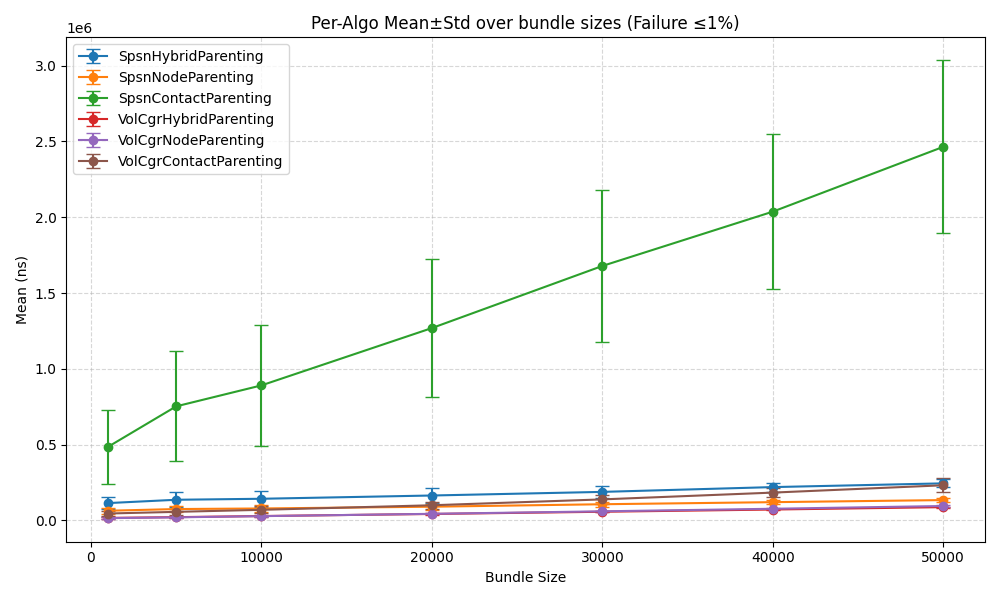
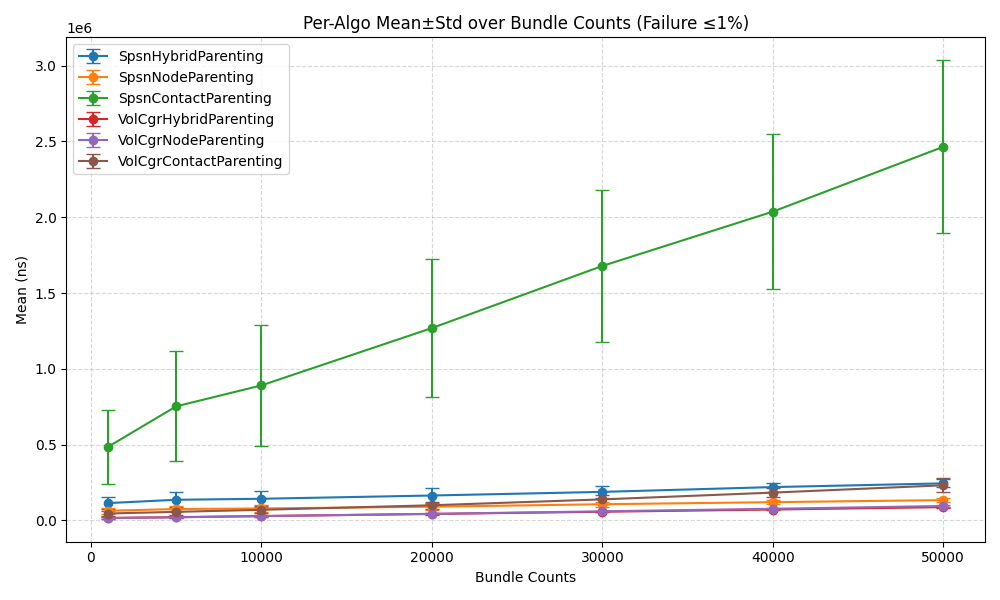
correct typo: Bundle Sizes -> Bundle Counts

Changed region(s): [[0.31, 0.03, 0.744, 0.06], [0.465, 0.93, 0.589, 0.99]]

diff --git a/Computational Evaluation/grid-search/Mean+Std of Diffs Across Elapsed-Time Pairs_6 lines_bundle.py b/Computational Evaluation/grid-search/Mean+Std of Diffs Across Elapsed-Time Pairs_6 lines_bundle.py
@@ -18,8 +18,8 @@ for fname in os.listdir('.'):
 if not log_files:
     raise FileNotFoundError("No log files found matching '(6 XeY b).log' pattern.")
 
-bundle_sizes = sorted(log_files.keys())
-print(f"Discovered log durations (s): {bundle_sizes}")
+bundle_counts = sorted(log_files.keys())
+print(f"Discovered log durations (s): {bundle_counts}")
 
 # Regex to extract mean (ns) and failure rate (%) per metric line
 METRIC_PATTERN = re.compile(
@@ -62,64 +62,64 @@ def extract_metrics(filename: str):
     return means, fails
 
 # Load metrics per duration
-metrics = {} # {size: {'means': { <algo_name>: mean_ns[] }, 'fails': { <algo_name>: fail_pct[] }} for size in bundle_sizes}
-for size in bundle_sizes:
-    mns, fls = extract_metrics(log_files[size])
-    metrics[size] = {'means': mns, 'fails': fls}
+metrics = {} # {count: {'means': { <algo_name>: mean_ns[] }, 'fails': { <algo_name>: fail_pct[] }} for count in bundle_counts}
+for count in bundle_counts:
+    mns, fls = extract_metrics(log_files[count])
+    metrics[count] = {'means': mns, 'fails': fls}
 
 # Verify equal metric count
-counts = {size: len(metrics[size]['means'][algo_names[0]]) for size in bundle_sizes}
+counts = {count: len(metrics[count]['means'][algo_names[0]]) for count in bundle_counts}
 print(f"Metric counts per log: {counts}")
 if len(set(counts.values())) != 1:
     raise ValueError(f"Inconsistent metric counts across logs: {counts}")
 
 # Filter metrics by failure rate <=1%
 metrics_filtered = {
-    size: {
+    count: {
         'means': {name: [] for name in algo_names},
         'fails': {name: [] for name in algo_names}
     }
-    for size in bundle_sizes
+    for count in bundle_counts
 }
-for size in bundle_sizes:
+for count in bundle_counts:
     for name in algo_names:
-        raw_means = metrics[size]['means'][name]
-        raw_fails = metrics[size]['fails'][name]
+        raw_means = metrics[count]['means'][name]
+        raw_fails = metrics[count]['fails'][name]
         for m, f in zip(raw_means, raw_fails):
             if f <= 1.0:
-                metrics_filtered[size]['means'][name].append(m)
-                metrics_filtered[size]['fails'][name].append(f)
+                metrics_filtered[count]['means'][name].append(m)
+                metrics_filtered[count]['fails'][name].append(f)
 
 # Compute global valid indices per algo across all logs
 valid_indices_per_algo = {name: [] for name in algo_names}
 for name in algo_names:
-    total_counts = len(metrics[bundle_sizes[0]]['means'][name])
+    total_counts = len(metrics[bundle_counts[0]]['means'][name])
     # check each original index if failure <=1 for all logs
     for idx in range(total_counts):
-        if all(metrics[size]['fails'][name][idx] <= 1.0 for size in bundle_sizes):
+        if all(metrics[count]['fails'][name][idx] <= 1.0 for count in bundle_counts):
             valid_indices_per_algo[name].append(idx)
 
 # Filter each log by these common indices to equalize counts
 metrics_filtered_log = {
-    size: {
+    count: {
         'means': {name: [] for name in algo_names},
         'fails': {name: [] for name in algo_names}
     }
-    for size in bundle_sizes
+    for count in bundle_counts
 }
-for size in bundle_sizes:
+for count in bundle_counts:
     for name in algo_names:
         for idx in valid_indices_per_algo[name]:
-            metrics_filtered_log[size]['means'][name].append(metrics[size]['means'][name][idx])
-            metrics_filtered_log[size]['fails'][name].append(metrics[size]['fails'][name][idx])
+            metrics_filtered_log[count]['means'][name].append(metrics[count]['means'][name][idx])
+            metrics_filtered_log[count]['fails'][name].append(metrics[count]['fails'][name][idx])
 
-# Compute per-algo mean & std across bundle sizes
-print("======Per-algo Mean Std across durations filtered by (Failure ≤1%) for one bundle size:")
+# Compute per-algo mean & std across bundle counts
+print("======Per-algo Mean Std across durations filtered by (Failure ≤1%) for one bundle count:")
 duration_means_per_algo = {name: [] for name in algo_names}
 duration_stds_per_algo = {name: [] for name in algo_names}
-for size in bundle_sizes:
+for count in bundle_counts:
     for name in algo_names:
-        vals = metrics_filtered[size]['means'][name]
+        vals = metrics_filtered[count]['means'][name]
         if vals:
             mu = statistics.mean(vals)
             sigma = statistics.pvariance(vals) ** 0.5
@@ -127,26 +127,26 @@ for size in bundle_sizes:
             mu, sigma = float('nan'), float('nan')
         duration_means_per_algo[name].append(mu)
         duration_stds_per_algo[name].append(sigma)
-        print(f"Bundle size {size:>7} | {name:<25} | count={len(vals):>3} | mean={mu:10.2f} ns | std={sigma:10.2f} ns")
+        print(f"Bundle counts {count:>7} | {name:<25} | count={len(vals):>3} | mean={mu:10.2f} ns | std={sigma:10.2f} ns")
 
-# Plot per-algo Mean±Std over bundle sizes
+# Plot per-algo Mean±Std over bundle counts
 plt.figure(figsize=(10, 6))
 for name in algo_names:
-    plt.errorbar(bundle_sizes, duration_means_per_algo[name], yerr=duration_stds_per_algo[name], fmt='o-', capsize=5, label=name)
-plt.xlabel('Bundle Size')
+    plt.errorbar(bundle_counts, duration_means_per_algo[name], yerr=duration_stds_per_algo[name], fmt='o-', capsize=5, label=name)
+plt.xlabel('Bundle Counts')
 plt.ylabel('Mean (ns)')
-plt.title('Per-Algo Mean±Std over bundle sizes (Failure ≤1%)')
+plt.title('Per-Algo Mean±Std over Bundle Counts (Failure ≤1%)')
 plt.legend()
 plt.grid(True, linestyle='--', alpha=0.5)
 plt.tight_layout()
 plt.show()
 
-# Compute per-storage diffs for each algo between consecutive bundle sizes
-print("======Per-algo Mean Std across durations filtered by (Failure ≤1%) for all bundle sizes:")
+# Compute per-storage diffs for each algo between consecutive bundle counts
+print("======Per-algo Mean Std across durations filtered by (Failure ≤1%) for all bundle counts:")
 pair_means_per_algo = {name: [] for name in algo_names}
 pair_stds_per_algo = {name: [] for name in algo_names}
-for i in range(len(bundle_sizes) - 1):
-    s0, s1 = bundle_sizes[i], bundle_sizes[i+1]
+for i in range(len(bundle_counts) - 1):
+    s0, s1 = bundle_counts[i], bundle_counts[i+1]
     for name in algo_names:
         v0 = metrics_filtered_log[s0]['means'][name]
         v1 = metrics_filtered_log[s1]['means'][name]
@@ -161,28 +161,28 @@ for i in range(len(bundle_sizes) - 1):
         print(f"Diff {s1:>7} - {s0:<7} | {name:<25} | count={len(diffs):>3} | mean={mu:10.2f} ns | std={sigma:10.2f} ns")
 
 # Plot error bars for diffs per algo
-x = list(range(1, len(bundle_sizes)))  # pair indices
+x = list(range(1, len(bundle_counts)))  # pair indices
 plt.figure(figsize=(10, 6))
 for name in algo_names:
     plt.errorbar(x, pair_means_per_algo[name], yerr=pair_stds_per_algo[name], fmt='o-', capsize=5, label=name)
 plt.xlabel('Pair Index')
 plt.ylabel('Mean Difference (ns)')
-plt.title('Mean±Std of Differences Across Bundle Sizes per Algo (Failure ≤1%)')
-plt.xticks(x, [f"{bundle_sizes[i]:>2}→{bundle_sizes[i+1]:<2}" for i in range(len(bundle_sizes)-1)])
+plt.title('Mean±Std of Differences Across Bundle Counts per Algo (Failure ≤1%)')
+plt.xticks(x, [f"{bundle_counts[i]:>2}→{bundle_counts[i+1]:<2}" for i in range(len(bundle_counts)-1)])
 plt.legend()
 plt.grid(True, linestyle='--', alpha=0.5)
 plt.tight_layout()
 plt.show()
 
-# Per-log overall stats and plot using metrics_filtered_log across all bundle sizes
+# Per-log overall stats and plot using metrics_filtered_log across all bundle counts
 print("======Overall Mean±Std per log after aligned filtering")
 means_per_log = []
 stds_per_log = []
-for size in bundle_sizes:
-    # collect all mean values across algos for this size
+for count in bundle_counts:
+    # collect all mean values across algos for this count
     vals = []
     for name in algo_names:
-        vals.extend(metrics_filtered_log[size]['means'][name])
+        vals.extend(metrics_filtered_log[count]['means'][name])
     if vals:
         mu = statistics.mean(vals)
         sigma = statistics.pvariance(vals) ** 0.5
@@ -190,13 +190,13 @@ for size in bundle_sizes:
         mu, sigma = float('nan'), float('nan')
     means_per_log.append(mu)
     stds_per_log.append(sigma)
-    print(f"Bundle size {size:>7} | count={len(vals):>4} | mean={mu:10.2f} ns | std={sigma:10.2f} ns")
+    print(f"Bundle count {count:>7} | count={len(vals):>4} | mean={mu:10.2f} ns | std={sigma:10.2f} ns")
 
 plt.figure(figsize=(10, 6))
-plt.errorbar(bundle_sizes, means_per_log, yerr=stds_per_log, fmt='o-', capsize=5)
-plt.xlabel('Bundle Size')
+plt.errorbar(bundle_counts, means_per_log, yerr=stds_per_log, fmt='o-', capsize=5)
+plt.xlabel('Bundle Counts')
 plt.ylabel('Overall Mean (ns)')
-plt.title('Overall Mean±Std over Bundle Sizes (Aligned Failure ≤1%)')
+plt.title('Overall Mean±Std over Bundle Counts (Aligned Failure ≤1%)')
 plt.grid(True, linestyle='--', alpha=0.5)
 plt.tight_layout()
 plt.show()
@@ -205,8 +205,8 @@ plt.show()
 print("======Overall Diffs per log after aligned filtering")
 pair_means = []
 pair_stds = []
-for i in range(len(bundle_sizes) - 1):
-    s0, s1 = bundle_sizes[i], bundle_sizes[i+1]
+for i in range(len(bundle_counts) - 1):
+    s0, s1 = bundle_counts[i], bundle_counts[i+1]
     # aggregate values across all algos for s0 and s1
     v0, v1 = [], []
     for name in algo_names:
@@ -229,8 +229,8 @@ plt.figure(figsize=(10, 6))
 plt.errorbar(x, pair_means, yerr=pair_stds, fmt='o-', capsize=5)
 plt.xlabel('Pair Index')
 plt.ylabel('Overall Mean Difference (ns)')
-plt.title('Overall Mean±Std of Differences Across Bundle Sizes (Aligned Failure ≤1%)')
-plt.xticks(x, [f"{bundle_sizes[i]:>2}→{bundle_sizes[i+1]:<2}" for i in range(len(bundle_sizes)-1)])
+plt.title('Overall Mean±Std of Differences Across Bundle Counts (Aligned Failure ≤1%)')
+plt.xticks(x, [f"{bundle_counts[i]:>2}→{bundle_counts[i+1]:<2}" for i in range(len(bundle_counts)-1)])
 plt.grid(True, linestyle='--', alpha=0.5)
 plt.tight_layout()
 plt.show()
